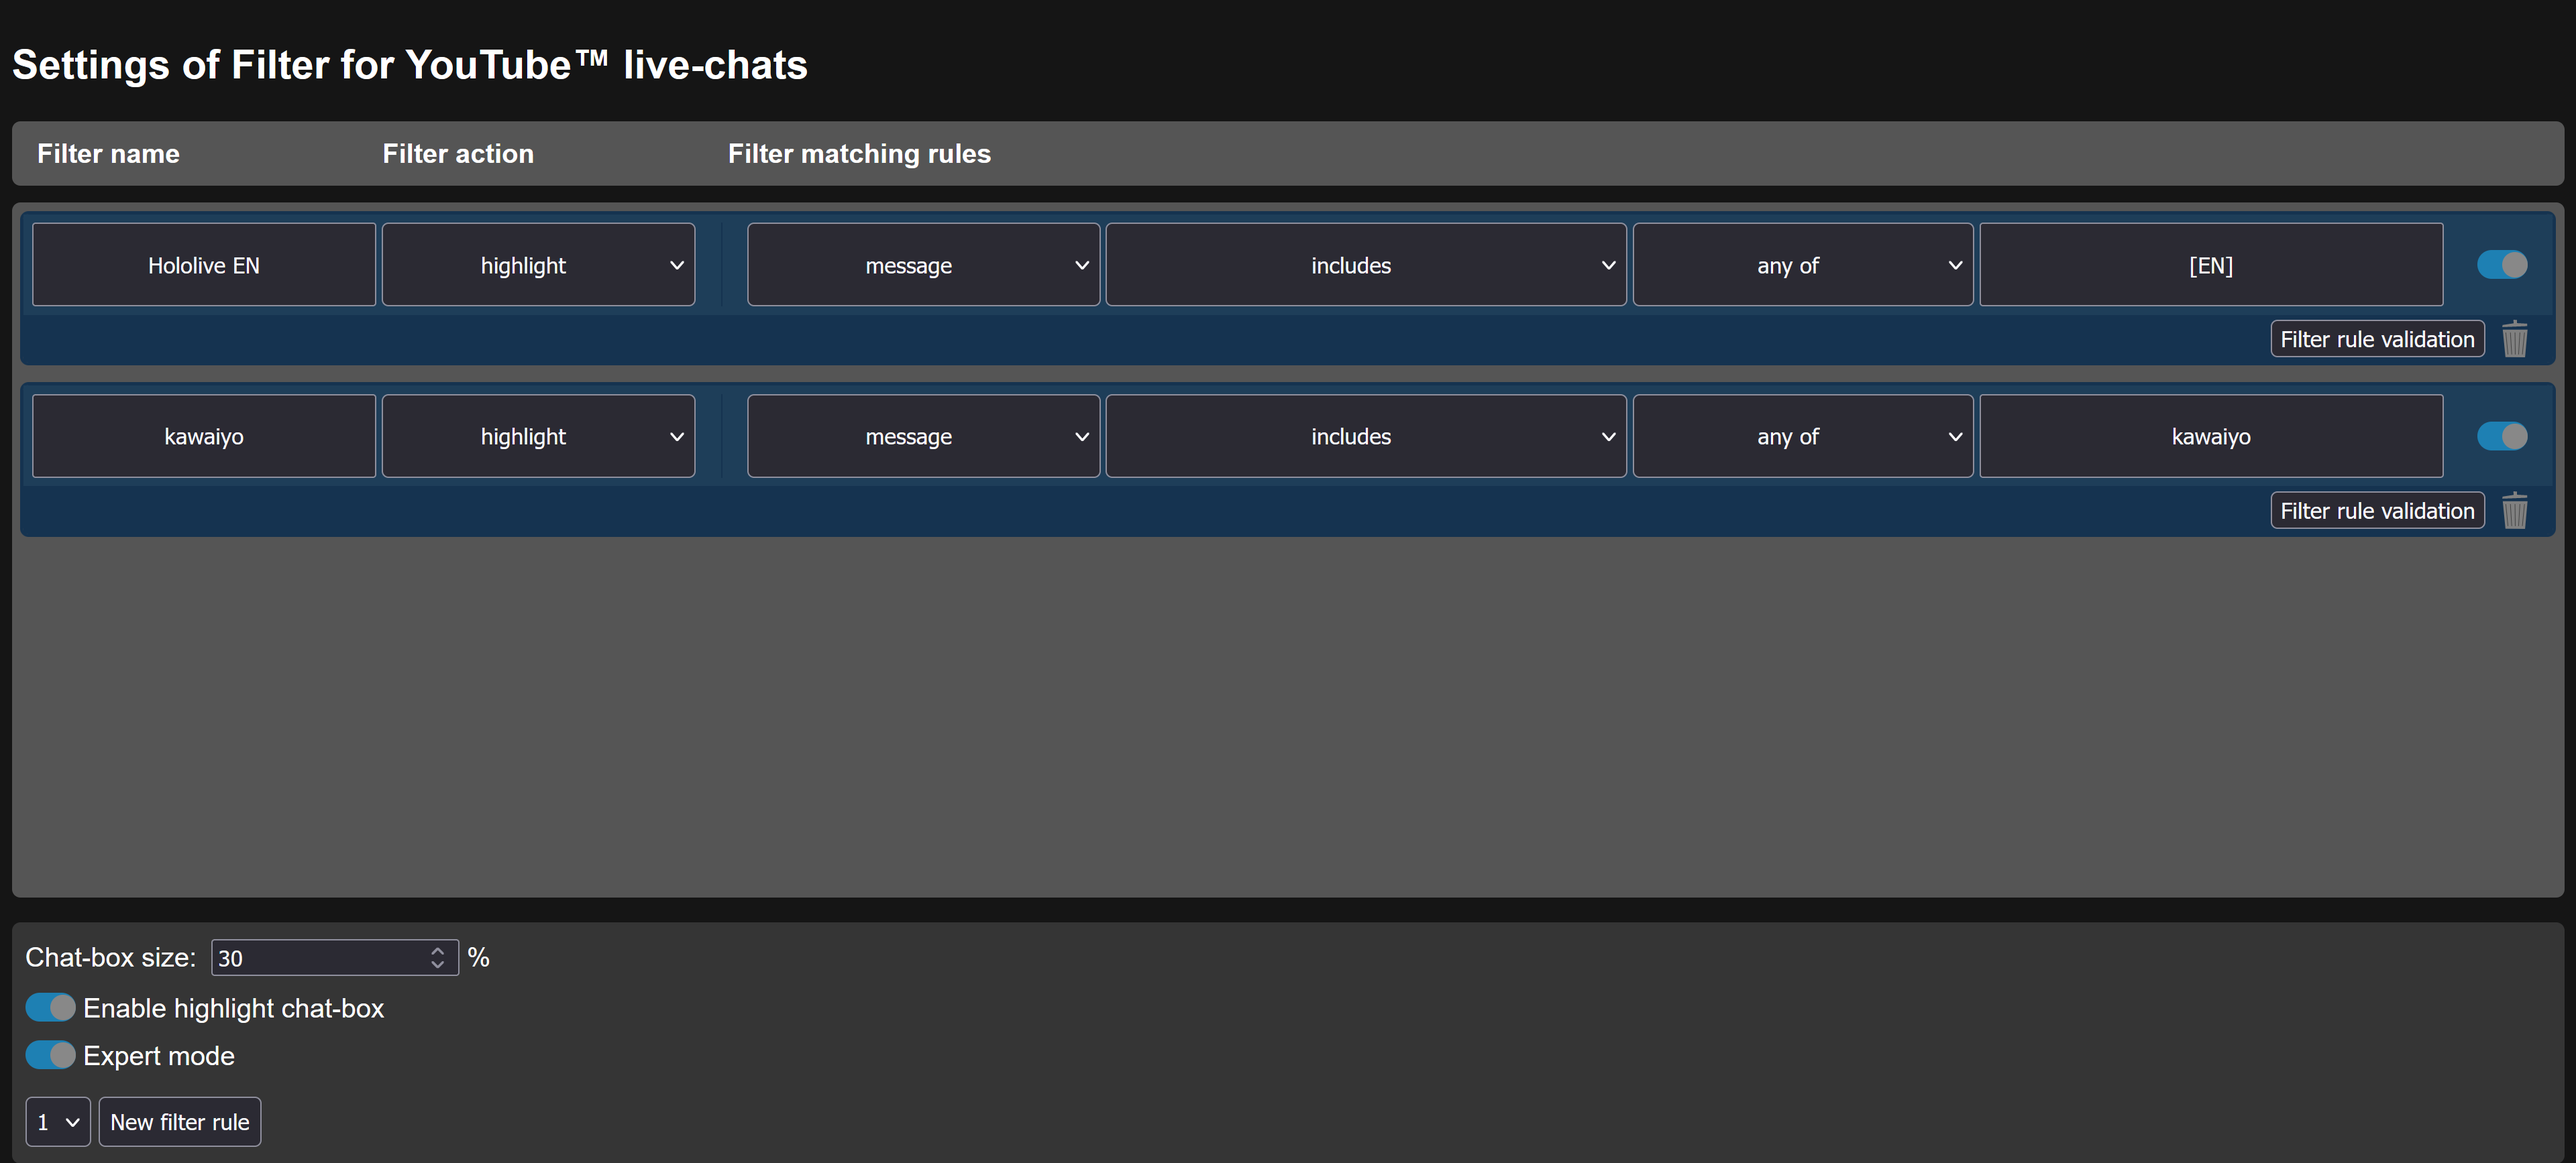
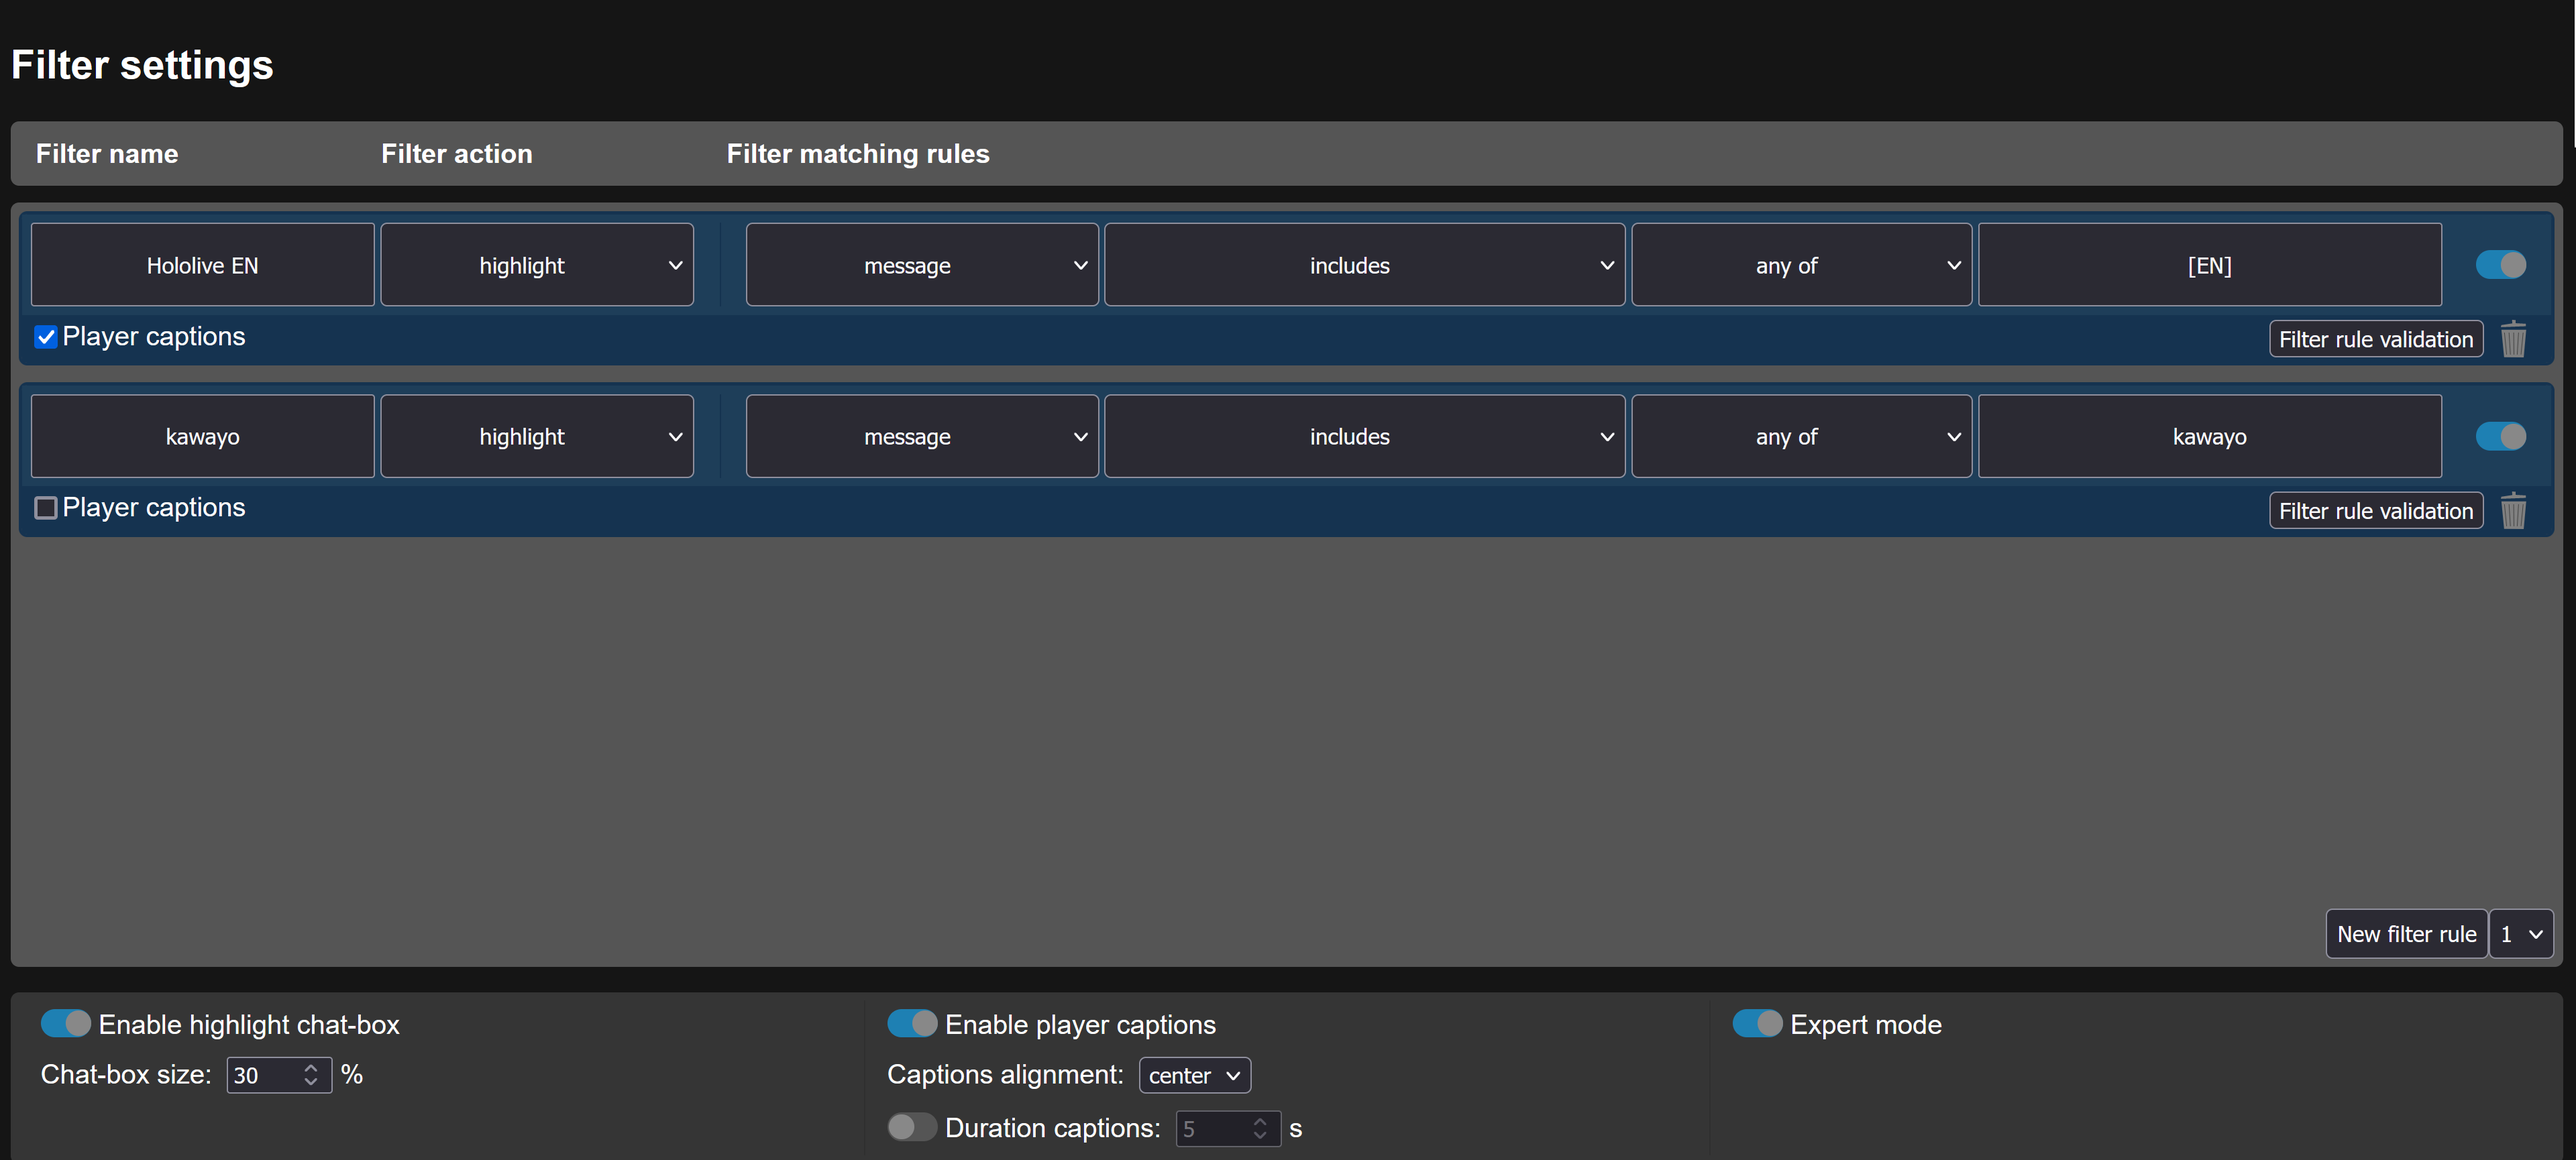
Updated readme

diff --git a/add-on/settings/settings.html b/add-on/settings/settings.html
@@ -27,8 +27,8 @@
                 <div class="body">
                     <div id="filters"></div>
                     <div class="controls">
-                        <select id="select_new_filter" class="i18n" title-id="titleSelectNumberFilter" value="1" required="required">
-                            <option value="1">1</option>
+                        <select id="select_new_filter" class="i18n" title-id="titleSelectNumberFilter" required="required">
+                            <option selected="selected" value="1">1</option>
                             <option value="2">2</option>
                         </select>
 
@@ -63,8 +63,8 @@
 
                     <span class="item">
                         <span class="i18n" data-id="overlayAlign"></span>:&nbsp;
-                        <select id="overlay_align" class="i18n" title-id="titleOverlayAlign" value="left">
-                            <option value="left" class="i18n" data-id="overlayAlignLeft"></option>
+                        <select id="overlay_align" class="i18n" title-id="titleOverlayAlign">
+                            <option selected="selected" value="left" class="i18n" data-id="overlayAlignLeft"></option>
                             <option value="center" class="i18n" data-id="overlayAlignCenter"></option>
                         </select>
                     </span>

diff --git a/add-on/settings/style.css b/add-on/settings/style.css
@@ -86,6 +86,7 @@
     border-radius: 5px;
     flex: none;
     padding: 5px;
+    text-align: left;
 }
 
 .description {
@@ -98,7 +99,6 @@
     flex: none;
     padding: 5px 3px 5px 3px;
     font-size: 12pt;
-    text-align: center;
 }
 
 #select_new_filter {

diff --git a/README.md b/README.md
@@ -1,15 +1,29 @@
 # YouTube Stream Filter
 
+
 ## About
-The add-on modifies the YouTube live-chat for both live-streams and re-play, allowing to either highlight or delete chat-messages matching a set of adjustable filter rules. This is usefull e.g. for highlighting Hololive live-chat translator messages, or deleting annoying message texts.
+The add-on modifies the YouTube live-chat for both live-streams and re-play, allowing to either highlight, show as video captions, or delete chat-messages matching a set of customizable filter rules. This is usefull e.g. for highlighting Hololive live-chat translator messages, or deleting annoying messages and emoji.
+
+The main features of the add-on are:
+- Highlighting of YouTube live-chat messages via a separated chat-box
+- View selected highlighted live-chat messages as video player captions
+- Deleting YouTube live-chat messages
+- Customizable filter rules, allowing to either enter simple search-texts, or to use more complex options (e.g. Regular Expressions)
+- Light- and Dark-theme support
+- When changing filter rules at the settings page, the settings are immediately applied to opened YouTube pages
+- Visual design close to YouTube's live-chat and video player design, aiming to not change the look of the YouTube website
+
+More detailed description of add-on features:
 
 For highlighting chat-messages, the YouTube live-chat is separated vertically into two live-chats. The upper one is the original one, while the lower one displays chat-messages you may filter for. The sizes of the chat-boxes are adjustable via dragging the separator line between the chat-boxes up or down. The highlight chat-box is removable via the settings page and the YouTube live-chat drop-down menu.
 
+Furthermore, it is possible to view chat-messages from some filter rules as video player captions. If the chat-message is a translator chat-message, e.g. starting with [EN] for English, the translator tag [EN] is not displayed for a more immersive viewing experience. 
+
 The add-on settings-page allows to set one or several filter rules. The filter rules search either the author-name or the message of a chat-message for search-texts. When a filter rule matches a chat-message, it will be either highlighted or removed, where rules higher up in the filter rule list are applied first. The filter rules are draggable up or down the list. Furthermore, Regular Expressions are available as filters when enabling the expert mode. The expert mode further enables a validation window, for validating if a filter rule matches example YouTube live-chat authors and messages.
 
-The settings are preset to highlight for common chat-based English translations of Japanese Hololive streams (at least the ones I watch).
+The settings are preset to highlight for common chat-based English translations of Japanese Hololive streams (at least the ones I watch). If you want to add new translator filter rules, add a new filter rule and then set as the search-text the language code within [] brackets. This is [EN] for English, [DE] for German, [JP] for Japanese, and similar for other languages.
 
-Please write me if you encounter some bugs or you would like some features to be implemented, by opening an Issue at the GitHub page of this add-on.
+Please write me if you encounter some bugs or you would like some features to be implemented, by opening an Issue at the GitHub page https://github.com/MengeTM/Filter-For-YouTube-Live-Chats/issues of this add-on.
 
 ## Installation
 Before installing the add-on, rename either "manifes_mozilla.json" for Mozilla Firefox, or "manifest_goofle.json" for Google Chrome in "manifes.json".
